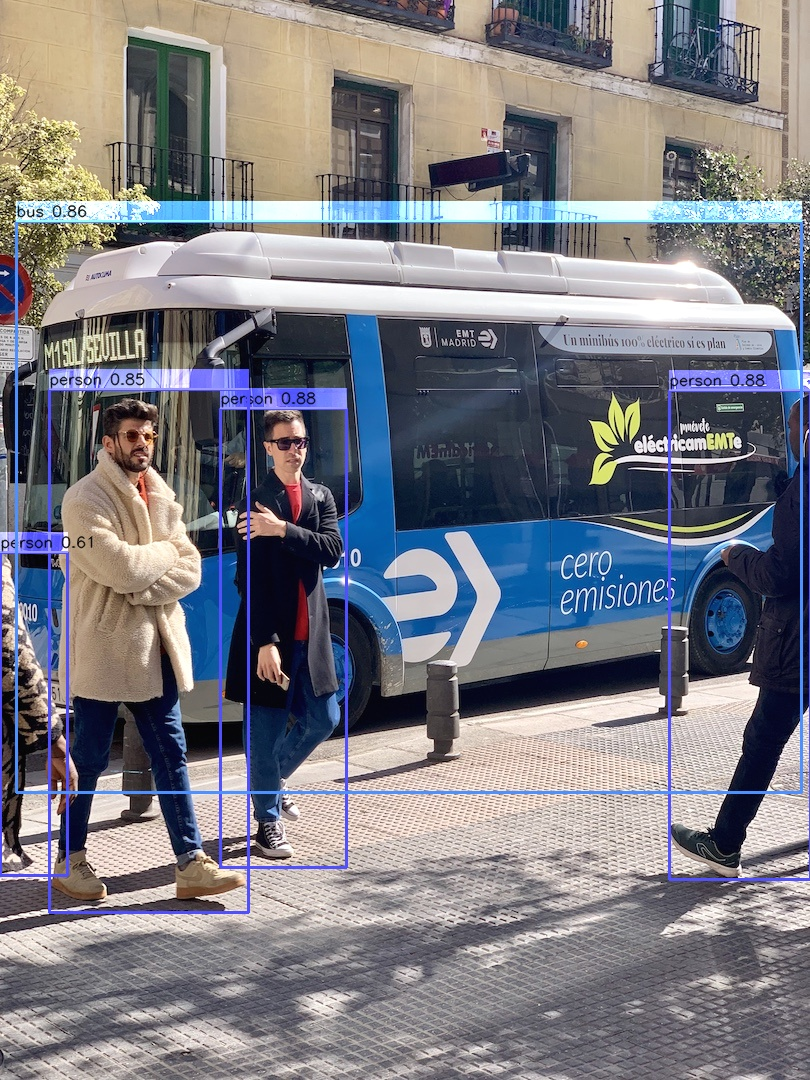
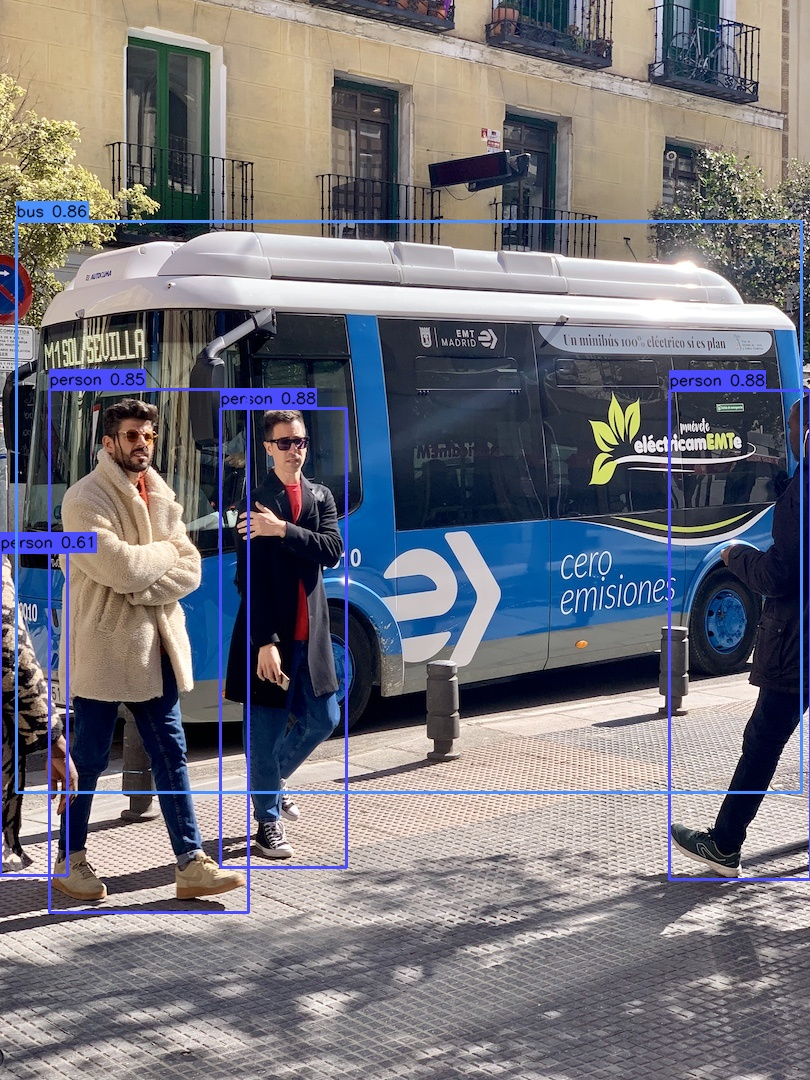
优化画图

diff --git a/utils/inference.py b/utils/inference.py
@@ -203,18 +203,13 @@ class Inference(ABC):
 
             # 绘制框
             image = cv2.rectangle(image, (xmin, ymin), (xmax, ymax), self.colors[classId], 2)
-            # 直接在原图上绘制文字背景，不透明
-            # image = cv2.rectangle(image, (xmin, ymin - 20), (xmax, ymax)), self.colors[classId], cv2.FILLED)
 
             # 文字
             label = str(self.config["names"][classId]) + " " + "{:.2f}".format(confidence)
             w, h = cv2.getTextSize(label, 0, fontScale=0.5, thickness=1)[0]  # text width, height
 
             # 添加文字背景
-            temp_image = np.zeros(image.shape).astype(np.uint8)
-            temp_image = cv2.rectangle(temp_image, (xmin, ymin - 20 if ymin > 20 else ymin + h + 10), (xmax, ymin), self.colors[classId], cv2.FILLED)
-            # 叠加原图和文字背景，文字背景是透明的
-            image = cv2.addWeighted(image, 1.0, temp_image, 1.0, 1)
+            image = cv2.rectangle(image, (xmin, ymin - 20 if ymin > 20 else ymin + h + 10), (xmin + w, ymin), self.colors[classId], cv2.FILLED)
 
             # 添加文字
             image = cv2.putText(
